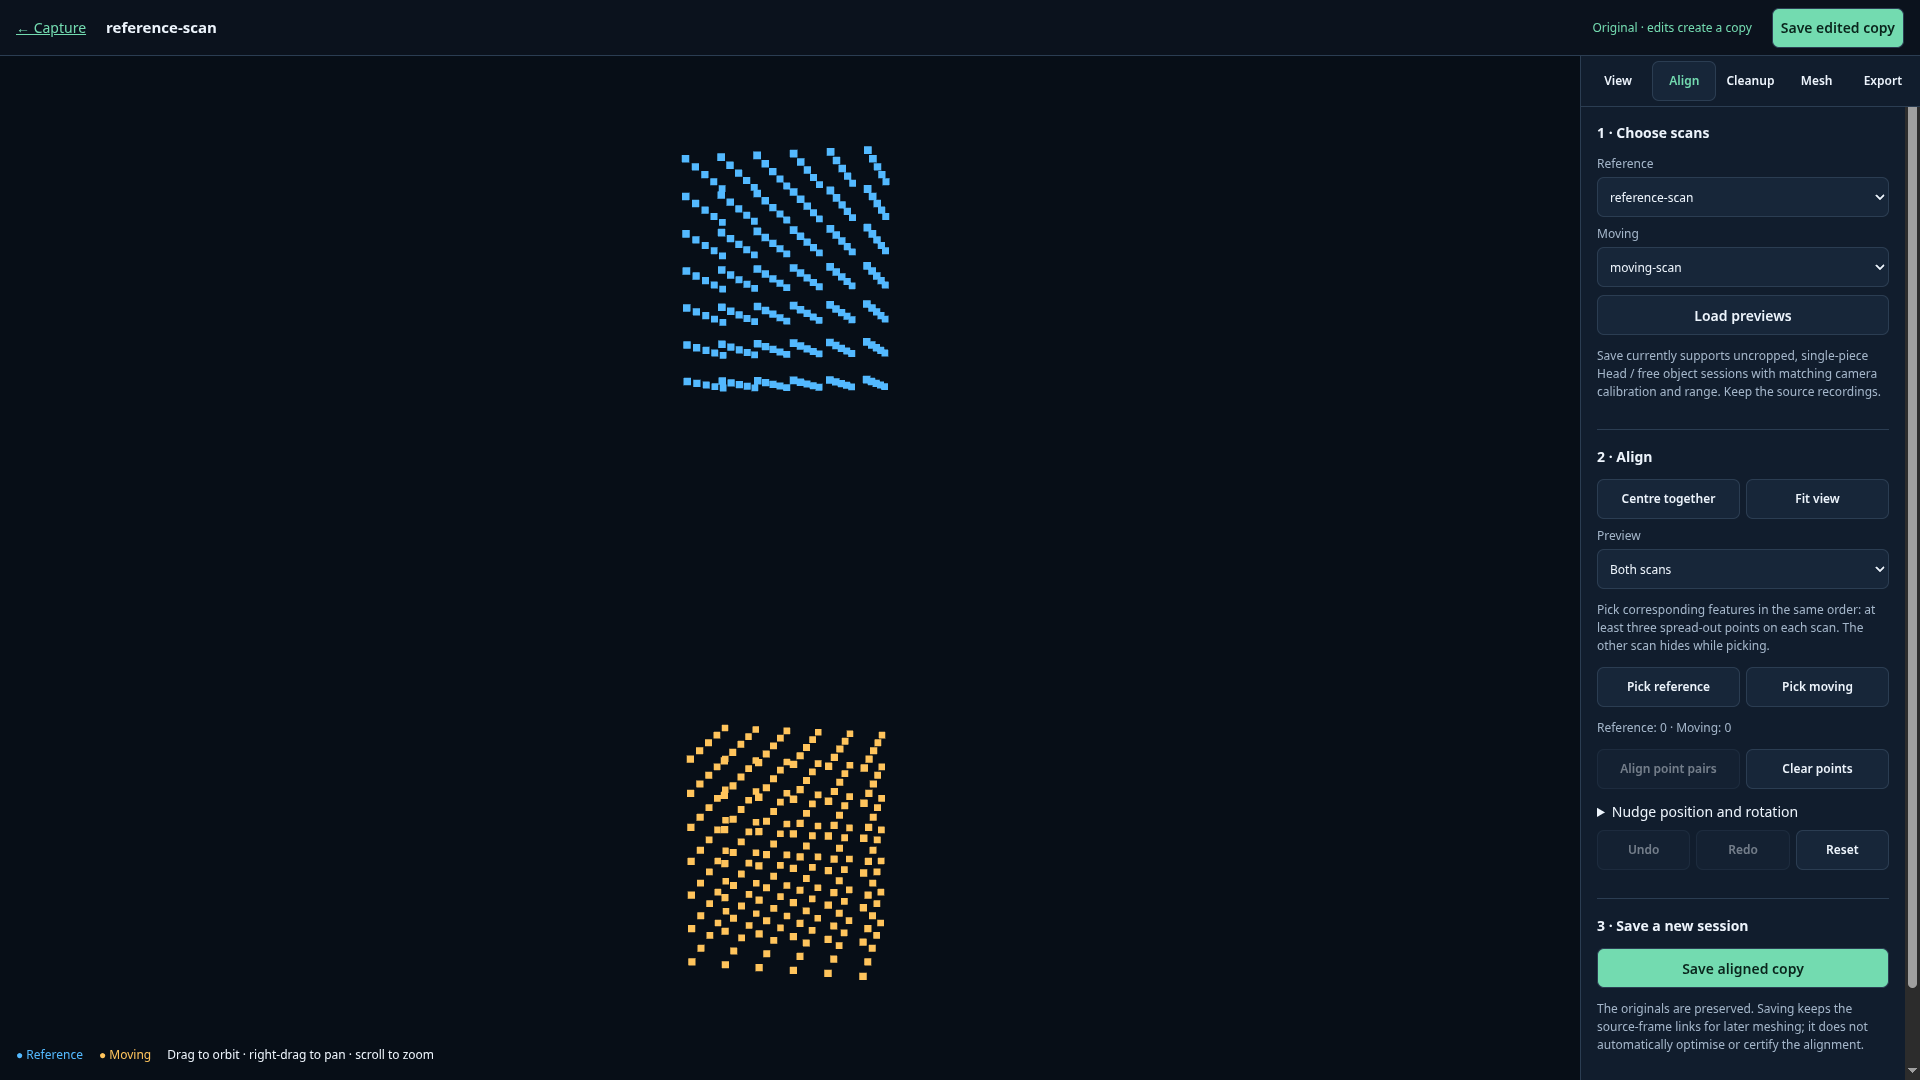
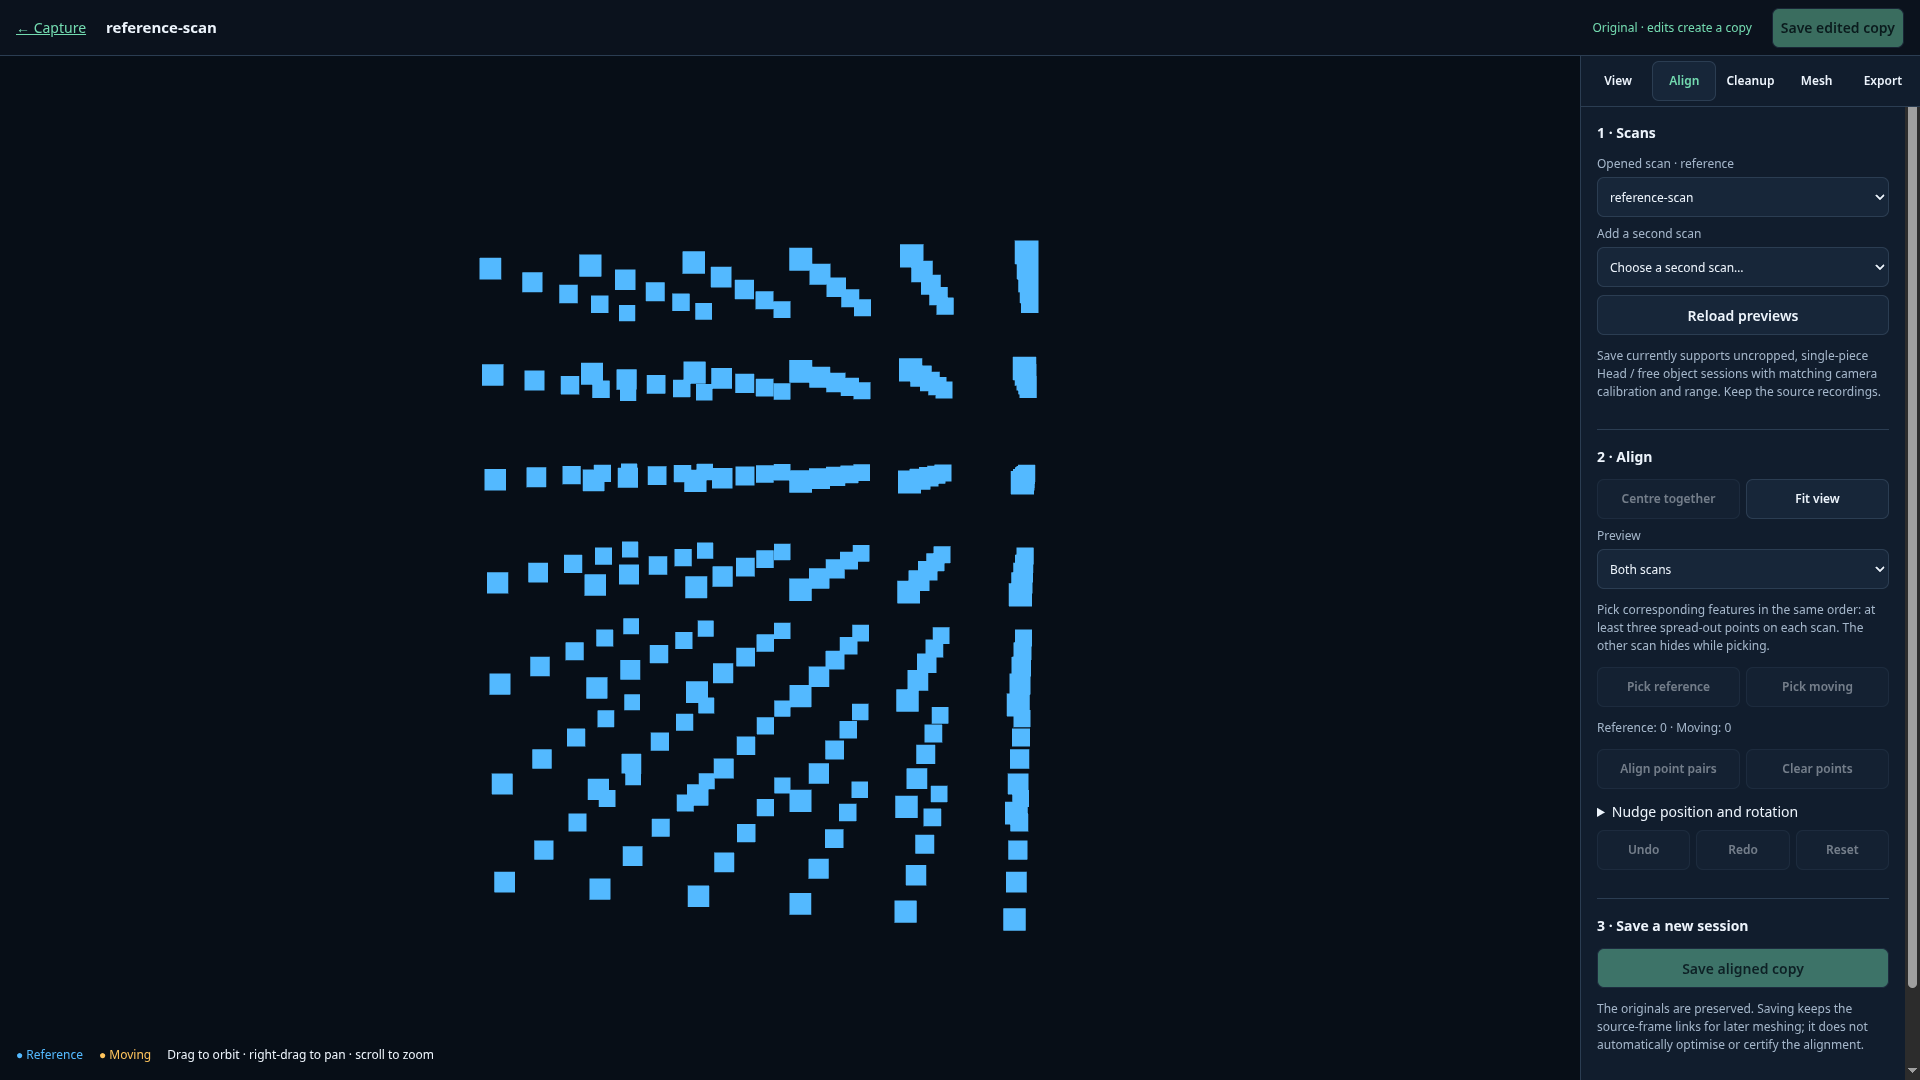
Load the opened scan automatically in alignment workspace

diff --git a/tribuutscan/web/alignment.js b/tribuutscan/web/alignment.js
@@ -24,9 +24,11 @@ function buttons(){
  for(const id of ['centre','frame','pick-reference','pick-moving','clear-points','reset','save'])$(id).disabled=!ready();
  $('fit').disabled=!ready()||landmarks.reference.length<3||landmarks.reference.length!==landmarks.moving.length;
  $('undo').disabled=!ready()||!past.length;$('redo').disabled=!ready()||!future.length;
- $('load').disabled=loading||saving||awaiting;
+ $('load').disabled=loading||saving||awaiting||!$('reference').value;
+ $('frame').disabled=loading||saving||awaiting||!clouds.reference;
  for(const id of ['reference','moving'])$(id).disabled=loading||saving||awaiting;
  for(const id of nudges)$(id).disabled=!ready();
+ for(const option of $('moving').options)option.disabled=!!option.value&&option.value===$('reference').value;
  $('pair-count').textContent=`Reference: ${landmarks.reference.length} · Moving: ${landmarks.moving.length}`;
 }
 function matrix(){return clouds.moving?.matrix.clone()||new THREE.Matrix4();}
@@ -56,19 +58,36 @@ function frame(){
  controls.target.copy(centre);camera.position.copy(centre).add(new THREE.Vector3(size*.3,size*.15,size*1.5));camera.near=Math.max(size/10000,.00001);camera.far=Math.max(100,size*10);camera.updateProjectionMatrix();
  ray.params.Points.threshold=size/100;controls.update();
 }
-async function load(){
- if($('reference').value===$('moving').value)return error('Choose two different scans.');
- loading=true;loaded=null;buttons();error();$('result').hidden=true;const id=++epoch;
- try{
- const names={reference:$('reference').value,moving:$('moving').value};
- const fetched=await Promise.all(Object.entries(names).map(async([key,name])=>{
+async function fetchCloud(key,name){
  const r=await fetch('/api/alignment/cloud?scan='+encodeURIComponent(name),{signal:AbortSignal.timeout(30000)});
  if(!r.ok){let result;try{result=await r.json();}catch{}throw Error(result?.error||'Could not load scan; check browser pairing.');}
- return [key,await r.arrayBuffer(),r.headers.get('X-Scan-Version')];}));
+ return [key,await r.arrayBuffer(),r.headers.get('X-Scan-Version')];
+}
+async function loadReference(){
+ if(!$('reference').value)return;
+ loading=true;loaded=null;buttons();error();$('result').hidden=true;const id=++epoch;
+ $('status').textContent='Loading the opened scan as reference…';
+ try{
+  const [key,buf]=await fetchCloud('reference',$('reference').value);
+  if(id!==epoch)return;
+  dispose();clouds[key]=makeCloud(buf,key);base.identity();past=[];future=[];clearPoints();$('visibility').value='both';pickMode(null);frame();
+  $('status').textContent='Opened scan loaded as reference. Choose a second scan to align with it.';
+ }catch(e){if(id===epoch){dispose();error(e.message);}}
+ finally{if(id===epoch){loading=false;buttons();}}
+}
+async function load(){
+ if(!$('moving').value)return loadReference();
+ if($('reference').value===$('moving').value)return error('Choose two different scans.');
+ loading=true;loaded=null;buttons();error();$('result').hidden=true;const id=++epoch;
+ $('status').textContent='Loading the second scan for alignment…';
+ try{
+ const names={reference:$('reference').value,moving:$('moving').value};
+ const fetched=await Promise.all(Object.entries(names).map(([key,name])=>fetchCloud(key,name)));
  if(id!==epoch)return;dispose();for(const [key,buf] of fetched)clouds[key]=makeCloud(buf,key);
  loaded={...names,versions:fetched.map(x=>x[2])};base.identity();past=[];future=[];clearPoints();pickMode(null);frame();
- $('status').textContent='Previews loaded (up to 200,000 points per scan). Align, inspect, then save a new session.';
- }catch(e){dispose();loaded=null;error(e.message);}finally{loading=false;buttons();}
+ $('status').textContent='Both scans loaded (up to 200,000 points each). Align, inspect, then save a new session.';
+ }catch(e){if(id===epoch){loaded=null;error(e.message);}}
+ finally{if(id===epoch){loading=false;buttons();}}
 }
 function clearPoints(){
  landmarks={reference:[],moving:[]};for(const item of Object.values(clouds))for(const marker of [...item.children]){
@@ -77,7 +96,12 @@ function clearPoints(){
 }
 $('load').onclick=load;
 for(const key of ['reference','moving']){
- $(key).onchange=()=>{loaded=null;epoch++;dispose();clearPoints();pickMode(null);$('result').hidden=true;$('status').textContent='Load the selected scans to begin.';buttons();};
+ $(key).onchange=()=>{loaded=null;epoch++;clearPoints();pickMode(null);$('result').hidden=true;
+  if(key==='reference')dispose();
+  else if(clouds.moving){scene.remove(clouds.moving);clouds.moving.geometry.dispose();clouds.moving.material.dispose();delete clouds.moving;}
+  if($('reference').value===$('moving').value)$('moving').value='';
+  load();
+ };
  $('pick-'+key).onclick=()=>{pickMode(mode===key?null:key);$('status').textContent=mode?`Click distinct features on the ${key} scan in matching order. Click its pick button again to finish.`:'Orbit to inspect the alignment.';};
 }
 $('visibility').onchange=()=>pickMode(null);
@@ -126,9 +150,15 @@ const animate=()=>{controls.update();renderer.render(scene,camera);};
 renderer.setAnimationLoop(animate);
 if(embedded){window.addEventListener('message',event=>{if(event.origin===location.origin&&event.source===parent&&event.data?.type==='alignment-visible')renderer.setAnimationLoop(event.data.visible?animate:null);});parent.postMessage({type:'alignment-ready'},location.origin);}
 try{
- const state=await api('/api/state');for(const key of ['reference','moving']){
- $(key).replaceChildren(...state.scans.map(name=>{const option=document.createElement('option');option.value=option.textContent=name;return option;}));
- }const reference=new URLSearchParams(location.search).get('reference');if(state.scans.includes(reference))$('reference').value=reference;
- const other=state.scans.find(name=>name!==$('reference').value);if(other)$('moving').value=other;
- $('load').disabled=state.scans.length<2;$('status').textContent=state.scans.length<2?'Two saved scans are needed. You can return here after capturing them.':'Choose two saved scans, then load their previews.';
+ const state=await api('/api/state');
+ const options=()=>state.scans.map(name=>{const option=document.createElement('option');option.value=option.textContent=name;return option;});
+ $('reference').replaceChildren(...options());
+ const placeholder=document.createElement('option');placeholder.value='';placeholder.textContent='Choose a second scan…';
+ $('moving').replaceChildren(placeholder,...options());$('moving').value='';
+ const requested=new URLSearchParams(location.search).get('reference');
+ const reference=state.scans.includes(requested)?requested:state.selected;
+ if(state.scans.includes(reference))$('reference').value=reference;
+ $('load').textContent='Reload previews';
+ if($('reference').value)await loadReference();
+ else{$('status').textContent='No saved scans yet. Capture a scan, then open it from Files.';buttons();}
 }catch(e){error(e.message);$('load').disabled=true;}

diff --git a/tribuutscan/web/alignment.html b/tribuutscan/web/alignment.html
@@ -5,7 +5,7 @@
 <body><header><a href="/">← Capture</a><h1>Align saved scans</h1><span>Reference stays fixed · moving scan is adjustable</span></header>
 <main><section class="viewport"><canvas id="view" aria-label="Saved scans alignment preview"></canvas><div id="legend"><span class="reference">● Reference</span><span class="moving">● Moving</span><span>Drag to orbit · right-drag to pan · scroll to zoom</span></div></section>
 <aside>
-<section><h2>1 · Choose scans</h2><label>Reference<select id="reference"></select></label><label>Moving<select id="moving"></select></label><button id="load">Load previews</button><p>Save currently supports uncropped, single-piece Head / free object sessions with matching camera calibration and range. Keep the source recordings.</p></section>
+<section><h2>1 · Scans</h2><label>Opened scan · reference<select id="reference"></select></label><label>Add a second scan<select id="moving"></select></label><button id="load">Reload previews</button><p>Save currently supports uncropped, single-piece Head / free object sessions with matching camera calibration and range. Keep the source recordings.</p></section>
 <section><h2>2 · Align</h2><div class="buttons"><button id="centre" disabled>Centre together</button><button id="frame" disabled>Fit view</button></div>
 <label>Preview<select id="visibility"><option value="both">Both scans</option><option value="reference">Reference only</option><option value="moving">Moving only</option></select></label>
 <p>Pick corresponding features in the same order: at least three spread-out points on each scan. The other scan hides while picking.</p>

diff --git a/docs/alignment.md b/docs/alignment.md
@@ -19,8 +19,9 @@ are rejected for now, rather than merging their incompatible masks or scene regi
 
 ## Align and inspect
 
-1. Choose the **Reference** and **Moving** scans and press **Load previews**.
-   Reference is blue; Moving is amber. Preview downloads are limited to 200,000
+1. The opened scan loads automatically as the blue **Reference**. Choose a
+   second scan under **Add a second scan**; its amber preview loads automatically.
+   **Reload previews** is available if a source changes or a load needs retrying. Preview downloads are limited to 200,000
    points per scan; saving uses the full saved frame data.
 2. Drag to orbit, right-drag to pan and scroll to zoom. **Fit view** frames both
    scans. The **Preview** selector can show either scan on its own.
@@ -39,7 +40,8 @@ are rejected for now, rather than merging their incompatible masks or scene regi
    aid, not automatic surface registration.
 
 Clear and repick landmarks if a point was selected incorrectly. Changing either
-source selection clears the preview; load the pair again before editing.
+source selection reloads the relevant preview automatically and clears the old
+alignment and landmark selections.
 
 ## Save and clean up
 

diff --git a/docs/saved-workspace.md b/docs/saved-workspace.md
@@ -25,8 +25,8 @@ mode stays selected when polling reloads generated artifacts.
 ![Alignment within the saved workspace](images/saved-alignment.png)
 
 The **Align** tab hosts the existing two-scan alignment tools inside the workspace,
-preselecting the current result as reference. Choose another scan, load previews,
-pick matching landmarks or adjust position/rotation, then save a new aligned
+automatically loading the current result as reference. Choose a second scan to
+load its preview automatically, then pick matching landmarks or adjust position/rotation, then save a new aligned
 session. Returning to its result brings you back to this workspace.
 
 See [alignment](alignment.md) for restrictions. Align uncropped, single-piece
